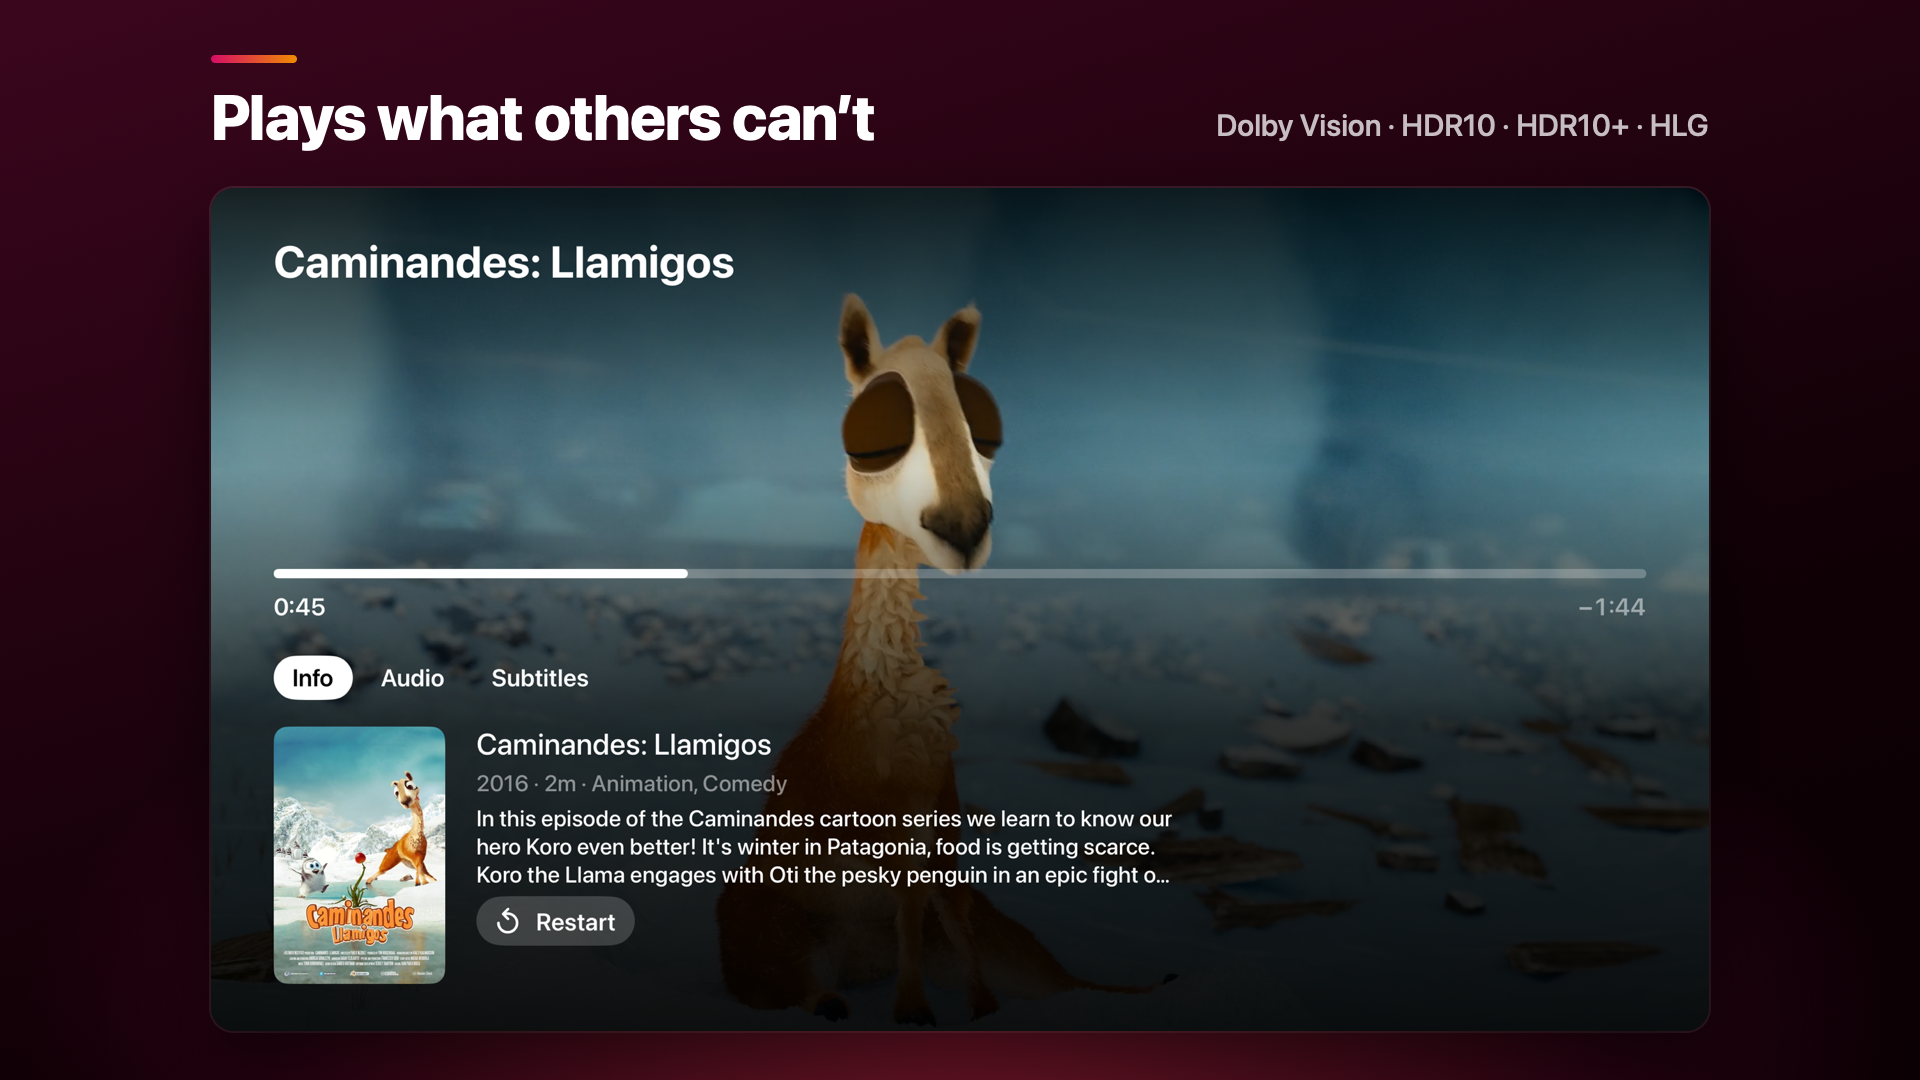
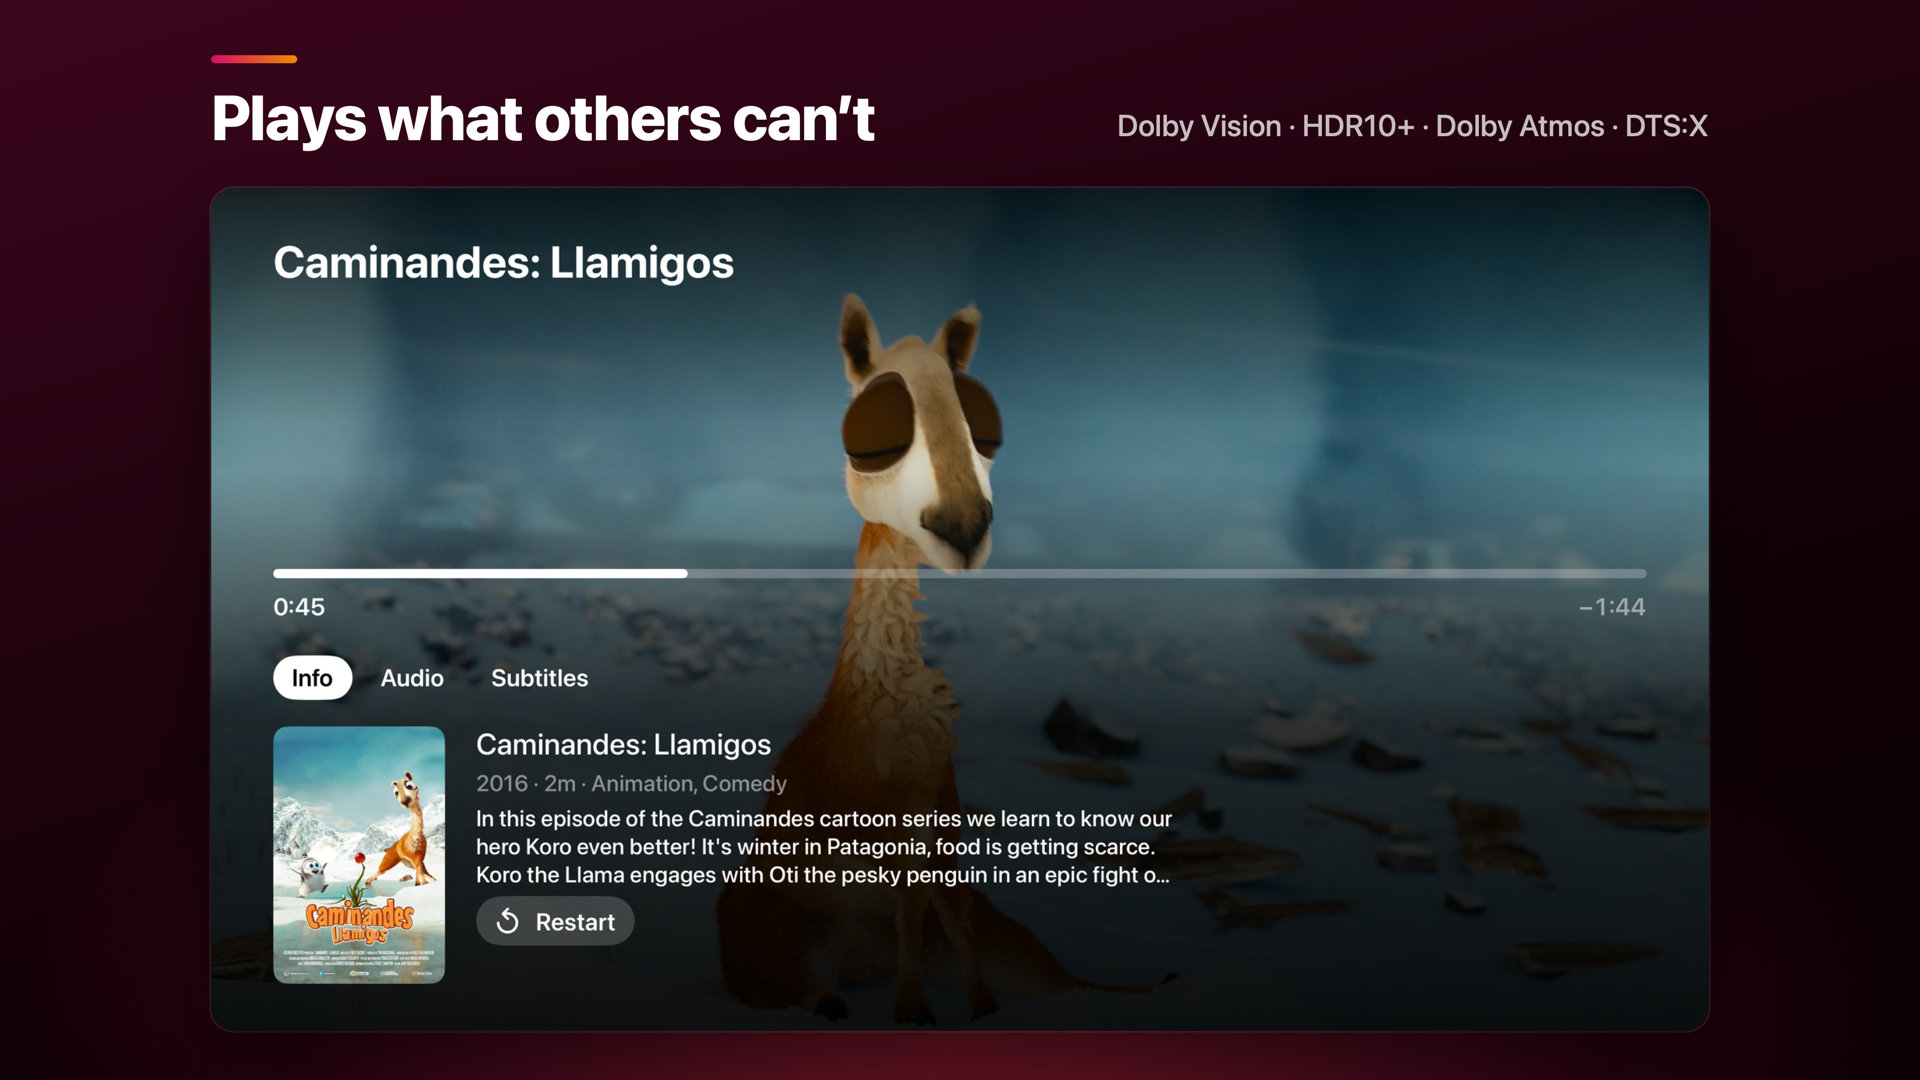
App Store listing: Dolby Atmos and DTS:X on Apple TV
Now that Spatial Audio ships (#364), the Apple TV listing says so: a
description section on keeping the height channels, the promotional text,
`atmos` and `dts` keywords, and slide 5's subtitle (Dolby Vision · HDR10+ ·
Dolby Atmos · DTS:X), re-rendered from the existing raw capture. README
picks up the new slide from the same file.

diff --git a/Scripts/store-screenshots/gen.py b/Scripts/store-screenshots/gen.py
@@ -51,7 +51,7 @@ TV_SLIDES = [
     dict(shot="02-grid.png",          head="Find it in seconds",                          sub="Genre, studio, decade — stacked"),
     dict(shot="03-movie.png",         head="Every detail, at a glance",                   sub="Cast, ratings and where you left off"),
     dict(shot="04-show.png",          head="Episode by episode",                          sub="Pick up the next one in a click"),
-    dict(shot="05-player.png",        head="Plays what others can’t",                     sub="Dolby Vision · HDR10 · HDR10+ · HLG"),
+    dict(shot="05-player.png",        head="Plays what others can’t",                     sub="Dolby Vision · HDR10+ · Dolby Atmos · DTS:X"),
     dict(shot="06-search.png",        head="Ask for it by name",                          sub="Movies, shows and episodes as you type"),
     dict(shot="07-whos-watching.png", head="A profile for everyone",                      sub="Who’s Watching? for the whole household"),
 ]

diff --git a/docs/store/tvos-listing.md b/docs/store/tvos-listing.md
@@ -8,14 +8,15 @@ to the `APP_APPLE_TV` set in order.
 
 ## Promotional text
 
-Your Jellyfin library, native on Apple TV: HDR playback, Top Shelf, one-press Quick Connect sign-in and a player made for the Siri Remote.
+Your Jellyfin library, native on Apple TV: Dolby Vision and HDR, Dolby Atmos and DTS:X with their height channels, Top Shelf and a player made for the Siri Remote.
 
 ## Keywords
 
-`server,client,media,video,tv,shows,movies,apple tv,top shelf,4k,dolby,hdr,streaming,home`
+`server,client,media,video,tv,shows,movies,apple tv,top shelf,4k,dolby,hdr,streaming,home,atmos,dts`
 
 iOS's list with `download` and `offline` (the Apple TV has no downloads)
-replaced by `apple tv` and `top shelf`; 88 of 100 characters.
+replaced by `apple tv` and `top shelf`, plus `atmos` and `dts` for Spatial
+Audio; 98 of 100 characters.
 
 ## Description
 
@@ -23,6 +24,9 @@ Dionysus is a native Apple TV client for Jellyfin, the free and open-source medi
 
 REAL HDR PLAYBACK
 Dionysus decodes Dolby Vision, HDR10, HDR10+ and HLG video. It is not a downscaled or tone-mapped approximation. It works with your Apple TV's Match Content settings, so your TV switches to the right mode for each title. When your server and network support it, you get the same picture quality as the original file, untouched.
+
+DOLBY ATMOS AND DTS:X, HEIGHTS INCLUDED
+Apple TV can't send Dolby TrueHD or DTS-HD Master Audio to a receiver, so most apps play Atmos and DTS:X films as a flat 5.1 mix and lose the overhead channels. Dionysus can decode the height channels and objects and re-encode them as Apple's Spatial Audio, which your Apple TV sends to an Atmos receiver or soundbar as Dolby Atmos. Choose your speaker layout, from 5.1.2 to 9.1.6. Turn it on in Settings → Spatial Audio.
 
 SMART, SERVER-AWARE STREAMING
 The app negotiates with your Jellyfin server every time you press play. It uses Direct Play when your Apple TV can handle the source natively, or a transcode when it can't. The app chooses automatically, or you can force Direct Play if you'd rather control it yourself.

diff --git a/CLAUDE.md b/CLAUDE.md
@@ -598,11 +598,14 @@ capture-then-render workflow. What the scripts don't say:
   shared account). The store set has no Top Shelf slide: when it was made
   the shelf showed the static image, and its Recently Added fix (#351) hasn't
   been checked against the demo. Never capture it against a personal server.
-- **The Apple TV player slide claims HDR formats only**: TrueHD Atmos
-  and DTS:X reach a receiver as Atmos only with Spatial Audio turned on
-  (`DionysusTV/CLAUDE.md`, "HDR and audio"), and the demo server has no
-  such tracks. Avoid frames with burnt-in on-screen text behind the
-  player's panel.
+- **The Apple TV player slide's subtitle names capabilities, not what's
+  on screen**: Dolby Vision, HDR10+, Dolby Atmos and DTS:X (2026-10-20,
+  after Spatial Audio shipped in #364). The frame is plain SDR, since the
+  demo server has no such tracks; the subtitle is the claim, so never fake
+  it in the picture. Atmos and DTS:X reach a receiver as Atmos only with
+  Spatial Audio turned on (`DionysusTV/CLAUDE.md`, "HDR and audio"), which
+  the listing's description says. Avoid frames with burnt-in on-screen
+  text behind the player's panel.
 
 ## Commit messages and pull request descriptions
 
